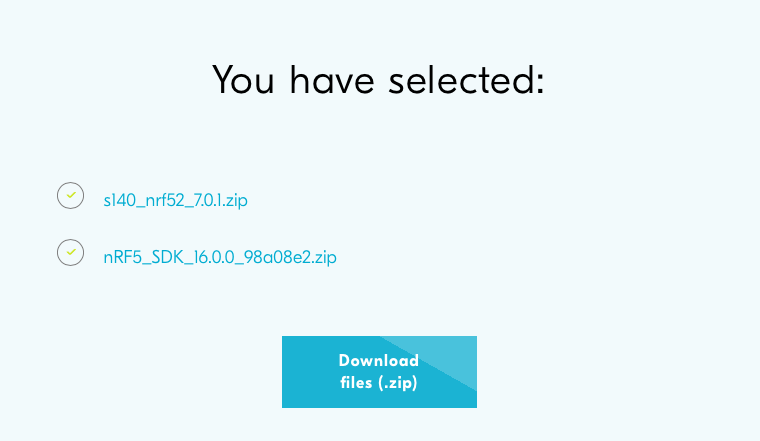
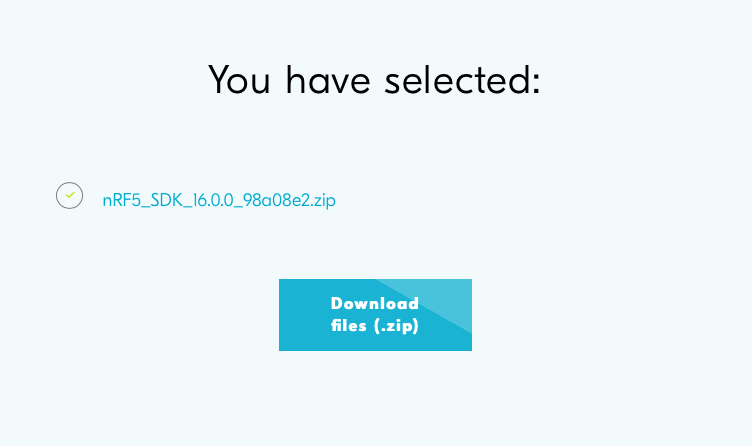
Moddable Four build only requires SDK download

Changed region(s): [[0.0612, 0.5601, 0.6423, 0.9433], [0.2753, 0.1474, 0.734, 0.2358], [0.0612, 0.4127, 0.4588, 0.4717]]

diff --git a/documentation/devices/moddable-four.md b/documentation/devices/moddable-four.md
@@ -88,7 +88,7 @@ It also includes an integrated LIS3DH accelerometer, jog dial, and CR2032 batter
 
 		![](../assets/devices/nrf5-sdk-versions.png)
 
-	- Select `SoftDevice S140` from the SoftDevices section.
+	- Uncheck all devices from the SoftDevices section.
 
 		![](../assets/devices/softdevices.png)
 
@@ -96,12 +96,7 @@ It also includes an integrated LIS3DH accelerometer, jog dial, and CR2032 batter
 
 		![](../assets/devices/selected.png)
 
-	The downloaded archive is named `DeviceDownload.zip`. When you unzip this archive, you will have a folder that contains two more zip archives:
-	
-	- `nRF5SDK160098a08e2.zip`
-	- `s140nrf52701.zip`
-
-	Unzip both of these archives and copy the `nRF5SDK160098a08e2` and `s140nrf52701` directories into the `nrf5` directory.
+	The downloaded archive is named `DeviceDownload.zip`. Unzip the archive and copy the `nRF5SDK160098a08e2` directory into the `nrf5` directory.
 
 6. Setup the `NRF_SDK_DIR` environment variable to point at the nRF5 SDK directory:
 	
@@ -182,7 +177,7 @@ After you've setup your macOS host environment, take the following steps to inst
 
 		![](../assets/devices/nrf5-sdk-versions.png)
 
-	- Select `SoftDevice S140` from the SoftDevices section.
+	- Uncheck all devices from the SoftDevices section.
 
 		![](../assets/devices/softdevices.png)
 
@@ -190,12 +185,7 @@ After you've setup your macOS host environment, take the following steps to inst
 
 		![](../assets/devices/selected.png)
 
-	The downloaded archive is named `DeviceDownload.zip`. When you unzip this archive, you will have a folder that contains two more zip archives:
-	
-	- `nRF5SDK160098a08e2.zip`
-	- `s140nrf52701.zip`
-
-	Unzip both of these archives and copy the `nRF5SDK160098a08e2` and `s140nrf52701` directories into the `nrf5` directory.
+	The downloaded archive is named `DeviceDownload.zip`. Unzip the archive and copy the `nRF5SDK160098a08e2` directory into the `nrf5` directory.
 
 6. Setup the `NRF52_SDK_PATH` environment variable to point at your nRF5 SDK directory:
 
@@ -292,7 +282,7 @@ After you've setup your Windows host environment, take the following steps to in
 
 		![](../assets/devices/nrf5-sdk-versions.png)
 
-	- Select `SoftDevice S140` from the SoftDevices section.
+	- Uncheck all devices from the SoftDevices section.
 
 		![](../assets/devices/softdevices.png)
 
@@ -300,12 +290,7 @@ After you've setup your Windows host environment, take the following steps to in
 
 		![](../assets/devices/selected.png)
 
-	The downloaded archive is named `DeviceDownload.zip`. When you unzip this archive, you will have a folder that contains two more zip archives:
-	
-	- `nRF5SDK160098a08e2.zip`
-	- `s140nrf52701.zip`
-
-	Unzip both of these archives and copy the `nRF5SDK160098a08e2` and `s140nrf52701` directories into the `nrf5` directory.
+	The downloaded archive is named `DeviceDownload.zip`. Unzip the archive and copy the `nRF5SDK160098a08e2` directory into the `nrf5` directory.
 
 6. Setup the `NRF_SDK_DIR` environment variable to point at the nRF5 SDK directory:
 	
